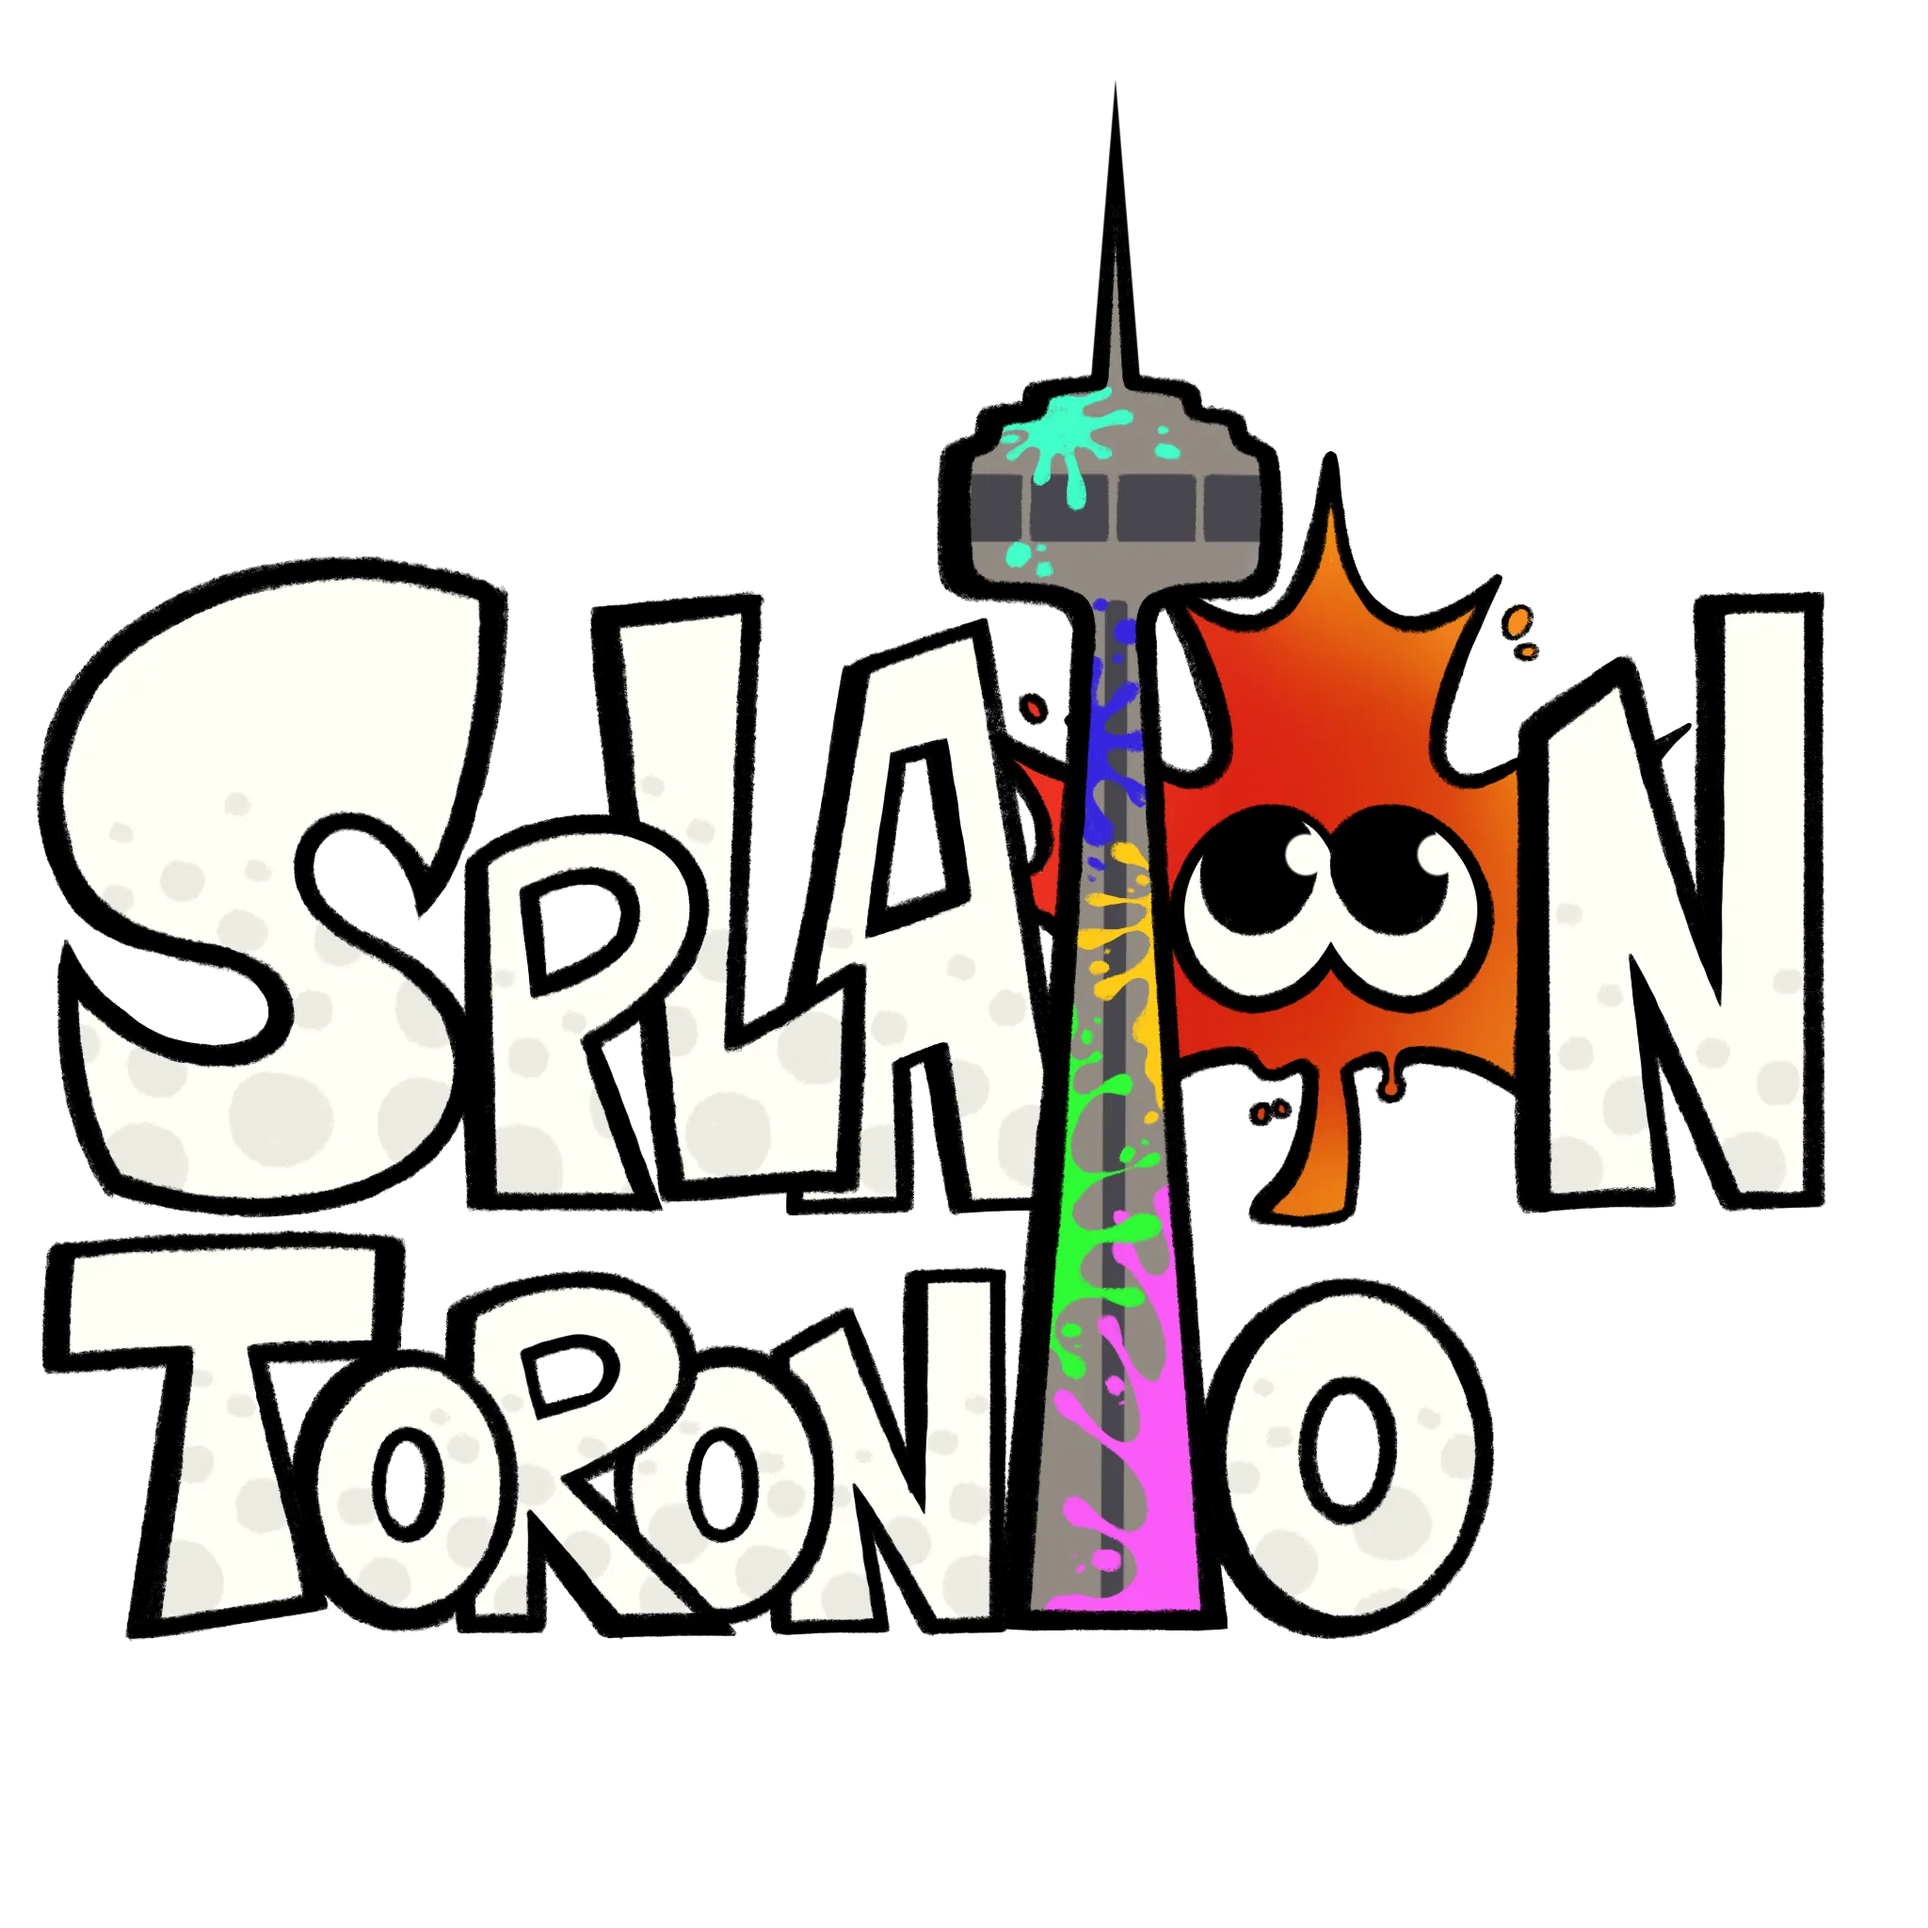
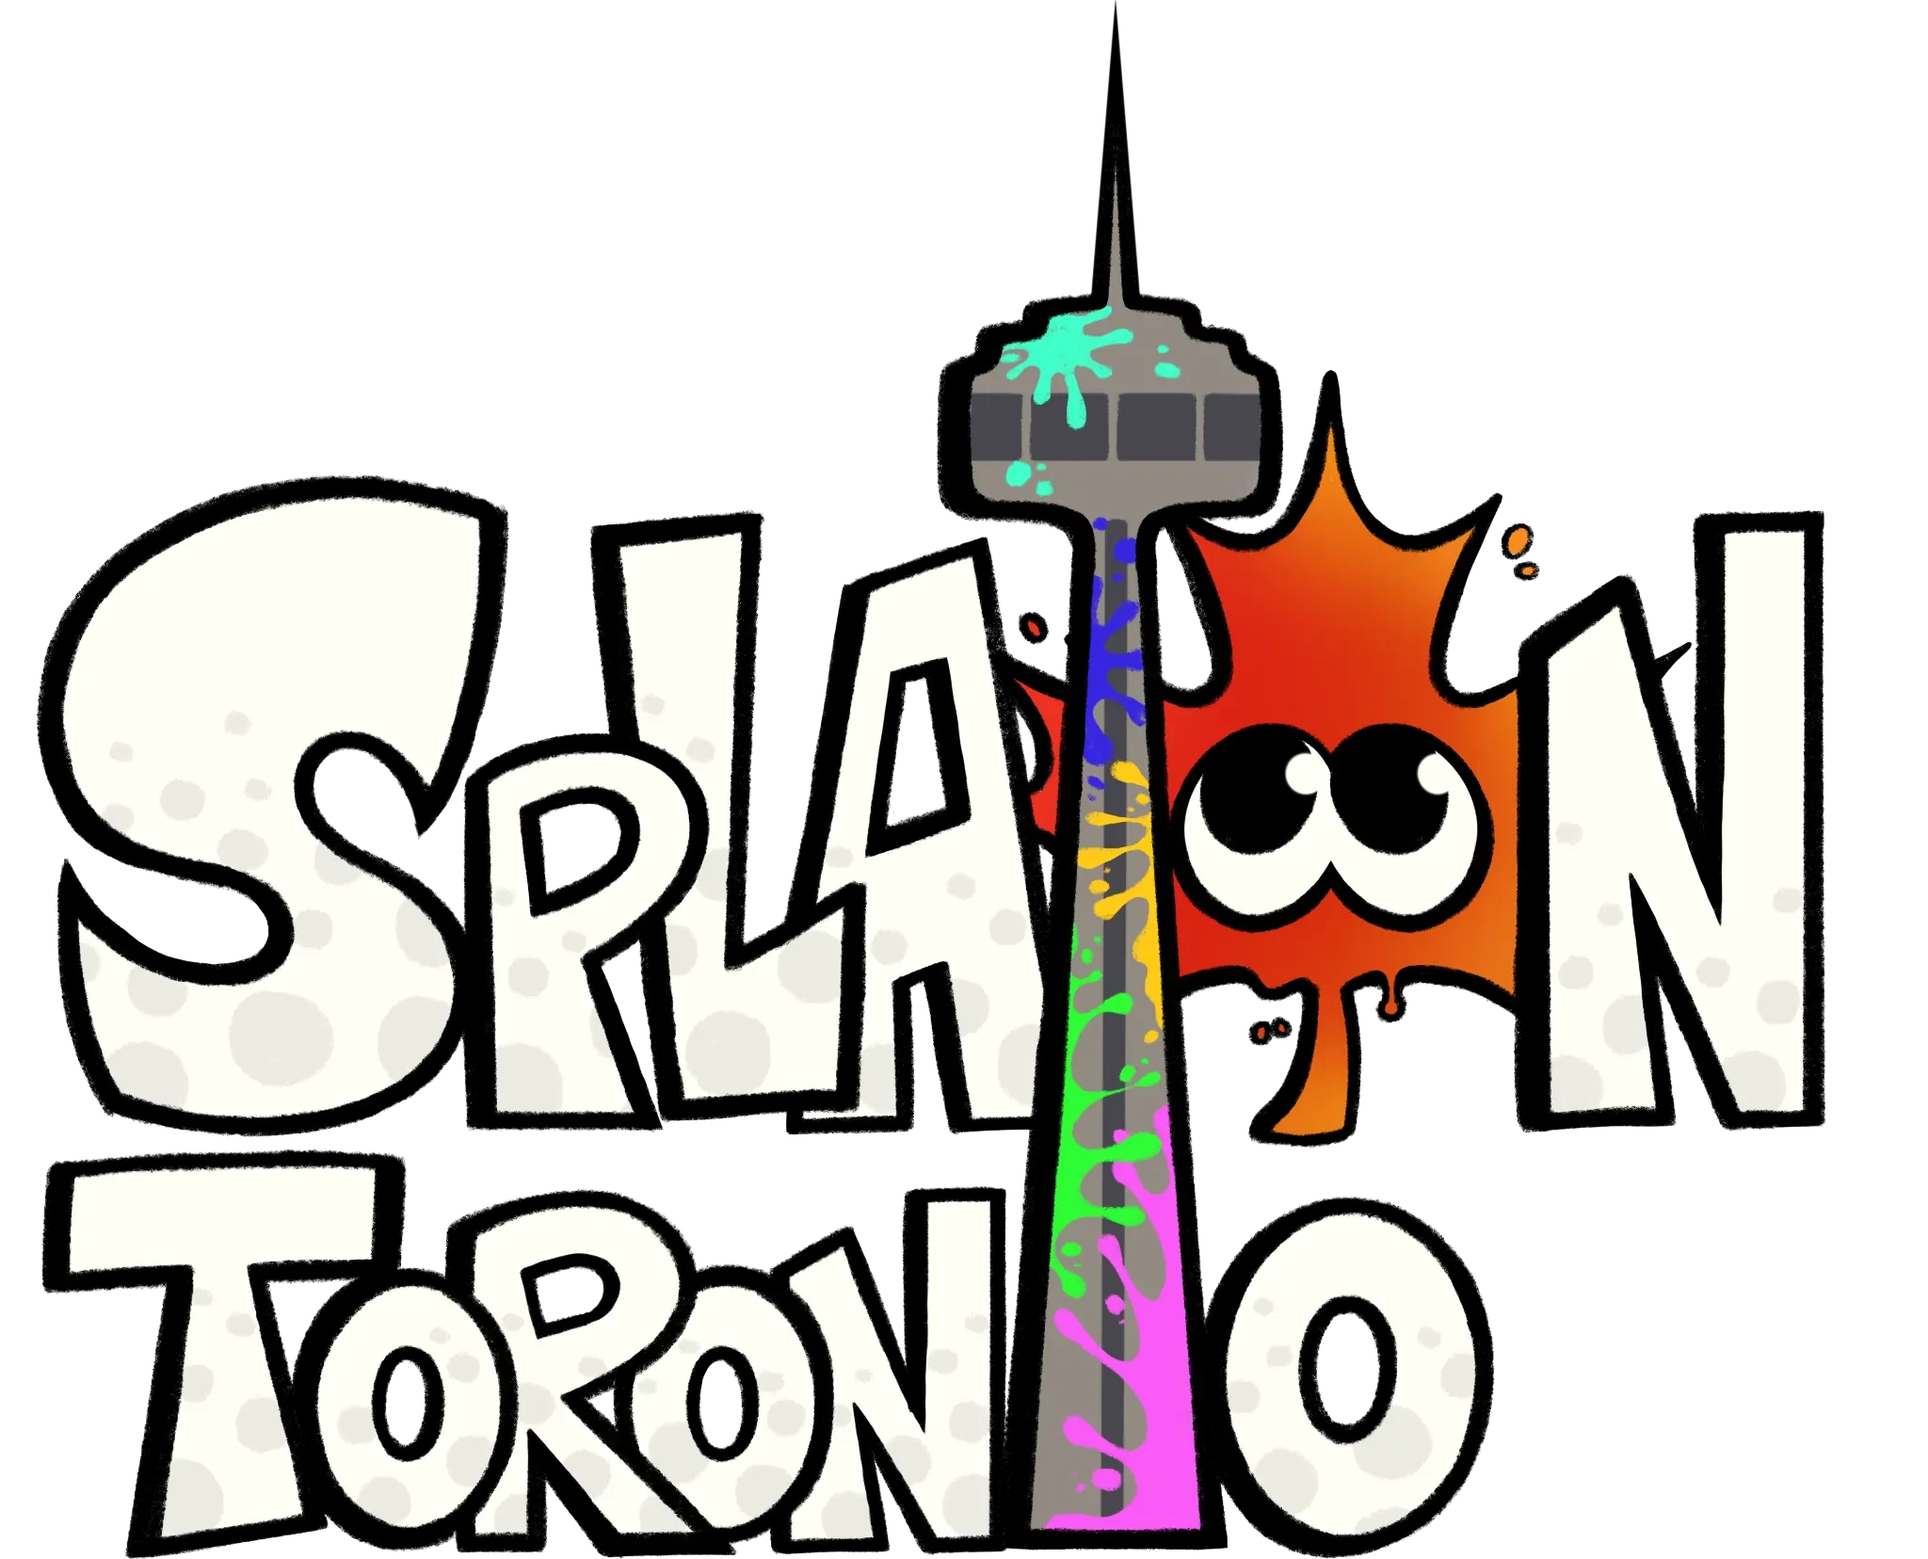
Fixes Homepage centering

Changed region(s): [[0.0, 0.0308, 0.9688, 1.0]]

diff --git a/app/page.tsx b/app/page.tsx
@@ -35,14 +35,15 @@ export default function Home() {
         }
       >
         <Navbar config={navLinks} socials={navSocials} />
-        <main className="flex flex-grow flex-col justify-center items-center gap-1">
+        <main className="flex-grow">
           <DiagonalGallery images={images} />
           <section
             className="
               absolute
               flex flex-col justify-center items-center
-              min-w-[300px] max-w-[550px]
-              top-[48%] left-1/2 -translate-x-1/2 -translate-y-1/2
+              min-w-[400px] max-w-[550px]
+              top-[50%] left-1/2 -translate-x-1/2 -translate-y-1/2
+              gap-1
             "
           >
             <Image
@@ -58,7 +59,7 @@ export default function Home() {
             />
             <Subtitle
               subtitle="Grassroots Splatoon in Toronto"
-              className="w-full mt-[-15%]"
+              className="w-full"
             />
           </section>
         </main>

diff --git a/components/DiagonalGallery.tsx b/components/DiagonalGallery.tsx
@@ -18,7 +18,15 @@ const DiagonalGallery = ({ images }: DiagonalGalleryProps) => {
   const width = (100 - images.length) / images.length;
 
   return (
-    <div className="relative">
+    <div
+      className="
+        absolute
+        top-1/2 left-1/2
+        -translate-x-1/2 -translate-y-1/2
+        w-full
+        flex justify-center
+      "
+    >
       <div
         className="
           flex gap-[1vw]
